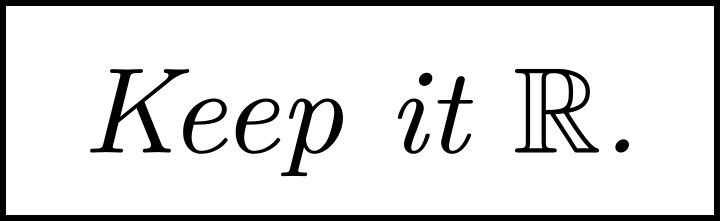
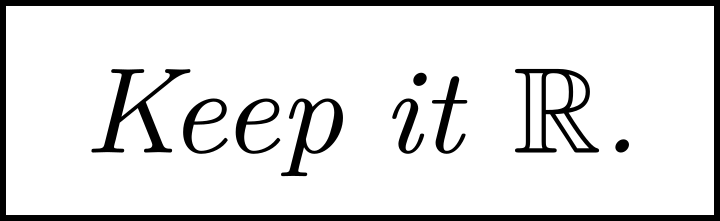
add license information and tweak `it` placement

diff --git a/assets/stickers/README.md b/assets/stickers/README.md
@@ -1,8 +1,11 @@
 # Keep it Real
 
-Original design based on spontaneous github status update.
+![](sticker-final.png)
 
-Don't convert with pandoc directly: 
+Original design based on spontaneous github status update. These files are available under
+the Creative Commons Share-Alike Attribution 4.0 license.
+
+ We can do better than converting with pandoc directly: 
 
 Makefile will run `pandoc sticker.md -o sticker-interim.pdf`
 
